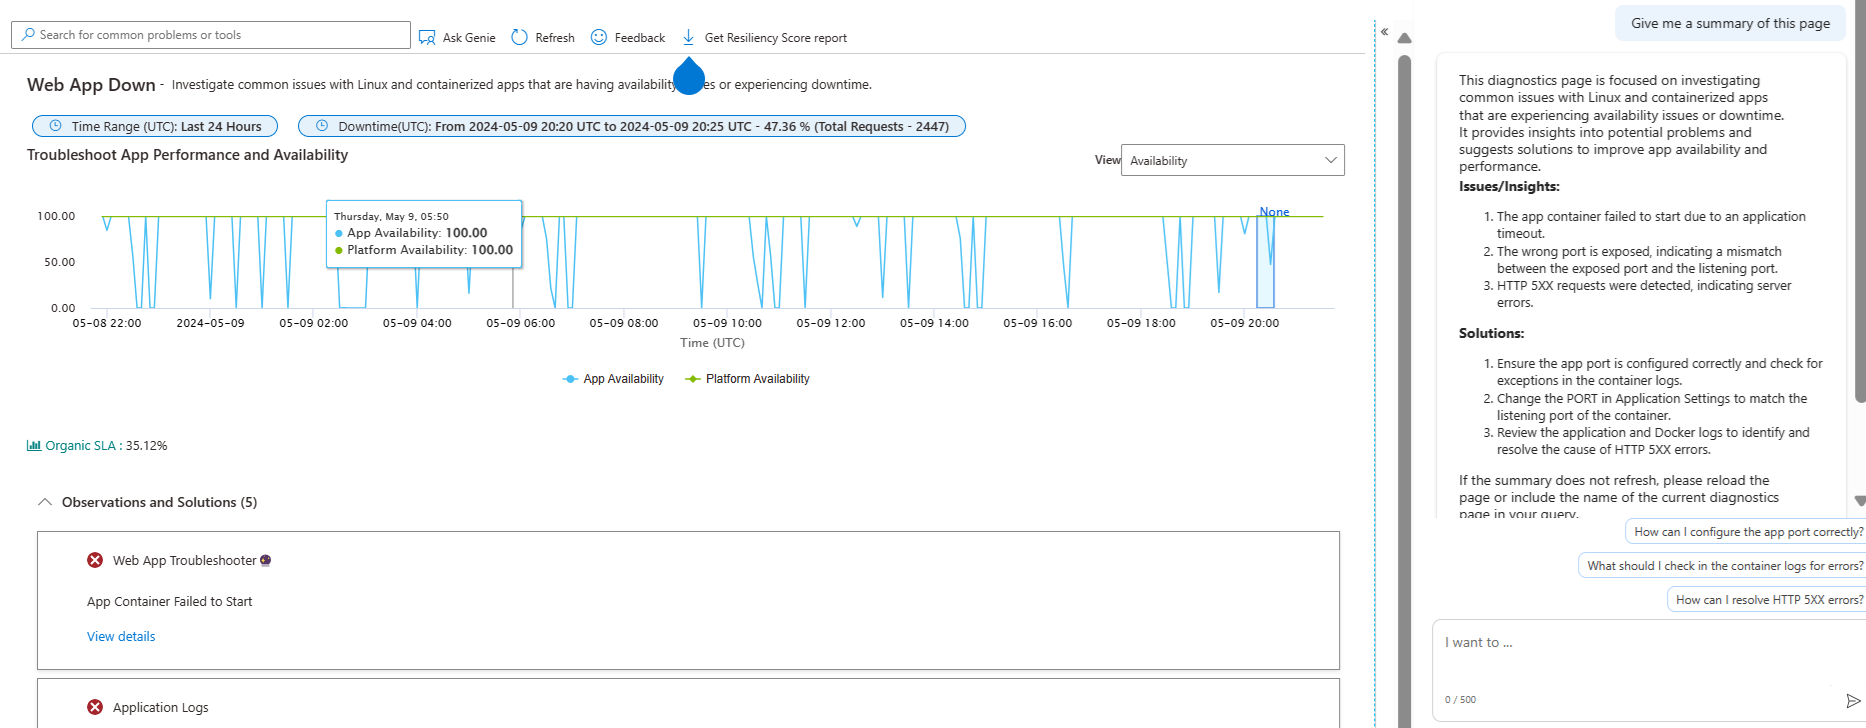
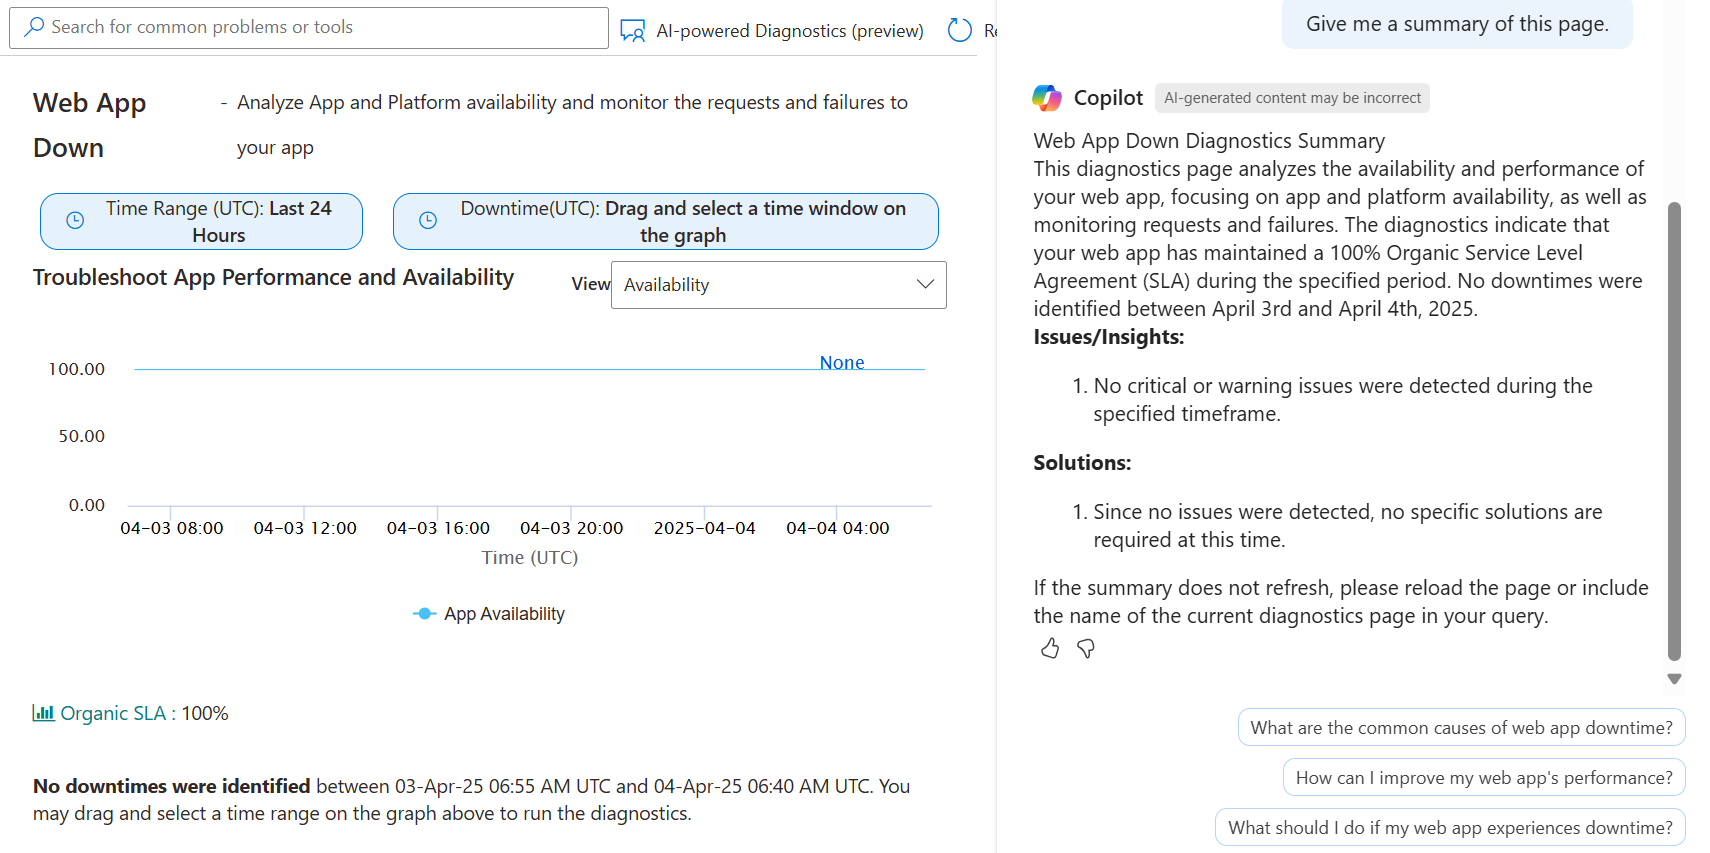
app service images

diff --git a/articles/copilot/troubleshoot-app-service.md b/articles/copilot/troubleshoot-app-service.md
@@ -1,7 +1,7 @@
 ---
 title: Troubleshoot your apps faster with App Service using Microsoft Copilot in Azure
 description: Learn how Microsoft Copilot in Azure can help you troubleshoot your web apps hosted with App Service.
-ms.date: 02/07/2025
+ms.date: 04/04/2025
 ms.topic: how-to
 ms.service: copilot-for-azure
 ms.custom:
@@ -14,15 +14,13 @@ author: JnHs
 
 Microsoft Copilot in Azure can act as your expert companion for [Azure App Service](/azure/app-service/overview) and [Azure Functions](/azure/azure-functions/functions-overview) diagnostics and solutions.
 
-Azure offers many troubleshooting tools for different types of issues with web apps and function apps. Rather than figure out which tool to use, you can ask Microsoft Copilot in Azure about the problem you're experiencing. Microsoft Copilot in Azure determines which tool is best suited to your question, whether it's related to high CPU usage, networking issues, getting a memory dump, or other issues. These tools provide diagnostics and suggestions to help you resolve problems you're experiencing.
+Azure offers many troubleshooting tools for different types of issues with web apps and function apps. Rather than figure out which tool to use, you can ask Microsoft Copilot in Azure about the problem you're experiencing. Microsoft Copilot in Azure determines which tool is best suited to your question, whether it's related to high CPU usage, networking issues, or other issues. These tools provide diagnostics and suggestions to help you resolve problems you're experiencing.
 
 Copilot in Azure can also help you understand diagnostic information in the Azure portal. For example, when you're looking at the **Diagnose and solve** page for a resource, or viewing diagnostics provided by a troubleshooting tool, you can ask Copilot in Azure to summarize the page, or to explain what an error means.
 
 When you ask Microsoft Copilot in Azure for troubleshooting help, it automatically pulls context when possible, based on the current conversation or the app you're viewing in the Azure portal. If the context isn't clear, you'll be prompted to specify the resource for which you want information.
 
 [!INCLUDE [scenario-note](includes/scenario-note.md)]
-
-
 
 >[!Note]
 >If you prefer to perform these prompts in your development environment, you can now do so using [GitHub Copilot for Azure (Preview)](/azure/developer/github-copilot-azure/introduction), an extension for Visual Studio Code. Specifically, you can [write prompts to troubleshoot your application in Azure](/azure/developer/github-copilot-azure/troubleshoot-examples) and more.
@@ -39,7 +37,6 @@ Troubleshooting:
 - "High CPU issue"
 - "Troubleshoot performance issues with my app"
 - "Analyze app latency?"
-- "Take a memory dump"
 
 Understanding available tools:
 
@@ -62,21 +59,17 @@ Summarization and explanation:
 
 ## Examples
 
-You can tell Microsoft Copilot in Azure "**my web app is down**." After you select the resource that you want to troubleshoot, Copilot in Azure opens the **App Service - Web App Down** tool so you can view diagnostics.
+You can tell Microsoft Copilot in Azure "**my web app is down**." After you select the resource that you want to troubleshoot, Copilot in Azure runs diagnostic checks to identify the cause of the problem.
 
-:::image type="content" source="media/troubleshoot-app-service/app-service-down.png" alt-text="Screenshot showing Copilot in Azure opening the App Service - Web App Down tool." lightbox="media/troubleshoot-app-service/app-service-down.png":::
+:::image type="content" source="media/troubleshoot-app-service/app-service-down.png" alt-text="Screenshot of Copilot in Azure responding to a prompt that a web app is down." lightbox="media/troubleshoot-app-service/app-service-down.png":::
 
-On the **Web App Down** page, you can say "**Give me a summary of this page.**" Copilot in Azure summarizes the insights and provides some recommended solutions.
+After the diagnostic checks are finished, Copilot in Azure shares potential causes and solutions to the problem.
+
+:::image type="content" source="media/troubleshoot-app-service/app-service-down-results.png" lightbox="media/troubleshoot-app-service/app-service-down-results.png" alt-text="Screenshot of Copilot in Azure sharing a potential solution to a web app problem.":::
+
+While troubleshooting your issues, you can say "**Give me a summary of this page.**" Copilot in Azure summarizes the insights and provides some recommended solutions.
 
 :::image type="content" source="media/troubleshoot-app-service/explain-diagnostics.png" alt-text="Screenshot of Copilot in Azure summarizing the insights and solutions on the Web App Down page." lightbox="media/troubleshoot-app-service/explain-diagnostics.png":::
-
-For another example, you could say "**web app slow**." Copilot in Azure checks for potential root causes and show you the results. It then offers to collect a profiling trace for further debugging.
-
-:::image type="content" source="media/troubleshoot-app-service/web-app-slow.png" alt-text="Screenshot showing Copilot in Azure investigating a slow web app." lightbox="media/troubleshoot-app-service/web-app-slow.png":::
-
-If you say "**Take a memory dump**", Microsoft Copilot in Azure suggests opening the **Collect a Memory Dump** tool so that you can take a snapshot of the app's current state. In this example, Microsoft Copilot in Azure continues to work with the resource selected earlier in the conversation.
-
-:::image type="content" source="media/troubleshoot-app-service/app-service-take-memory-dump.png" alt-text="Screenshot showing Copilot in Azure opening the Collect a Memory Dump tool." lightbox="media/troubleshoot-app-service/app-service-take-memory-dump.png" :::
 
 ## Next steps
 
